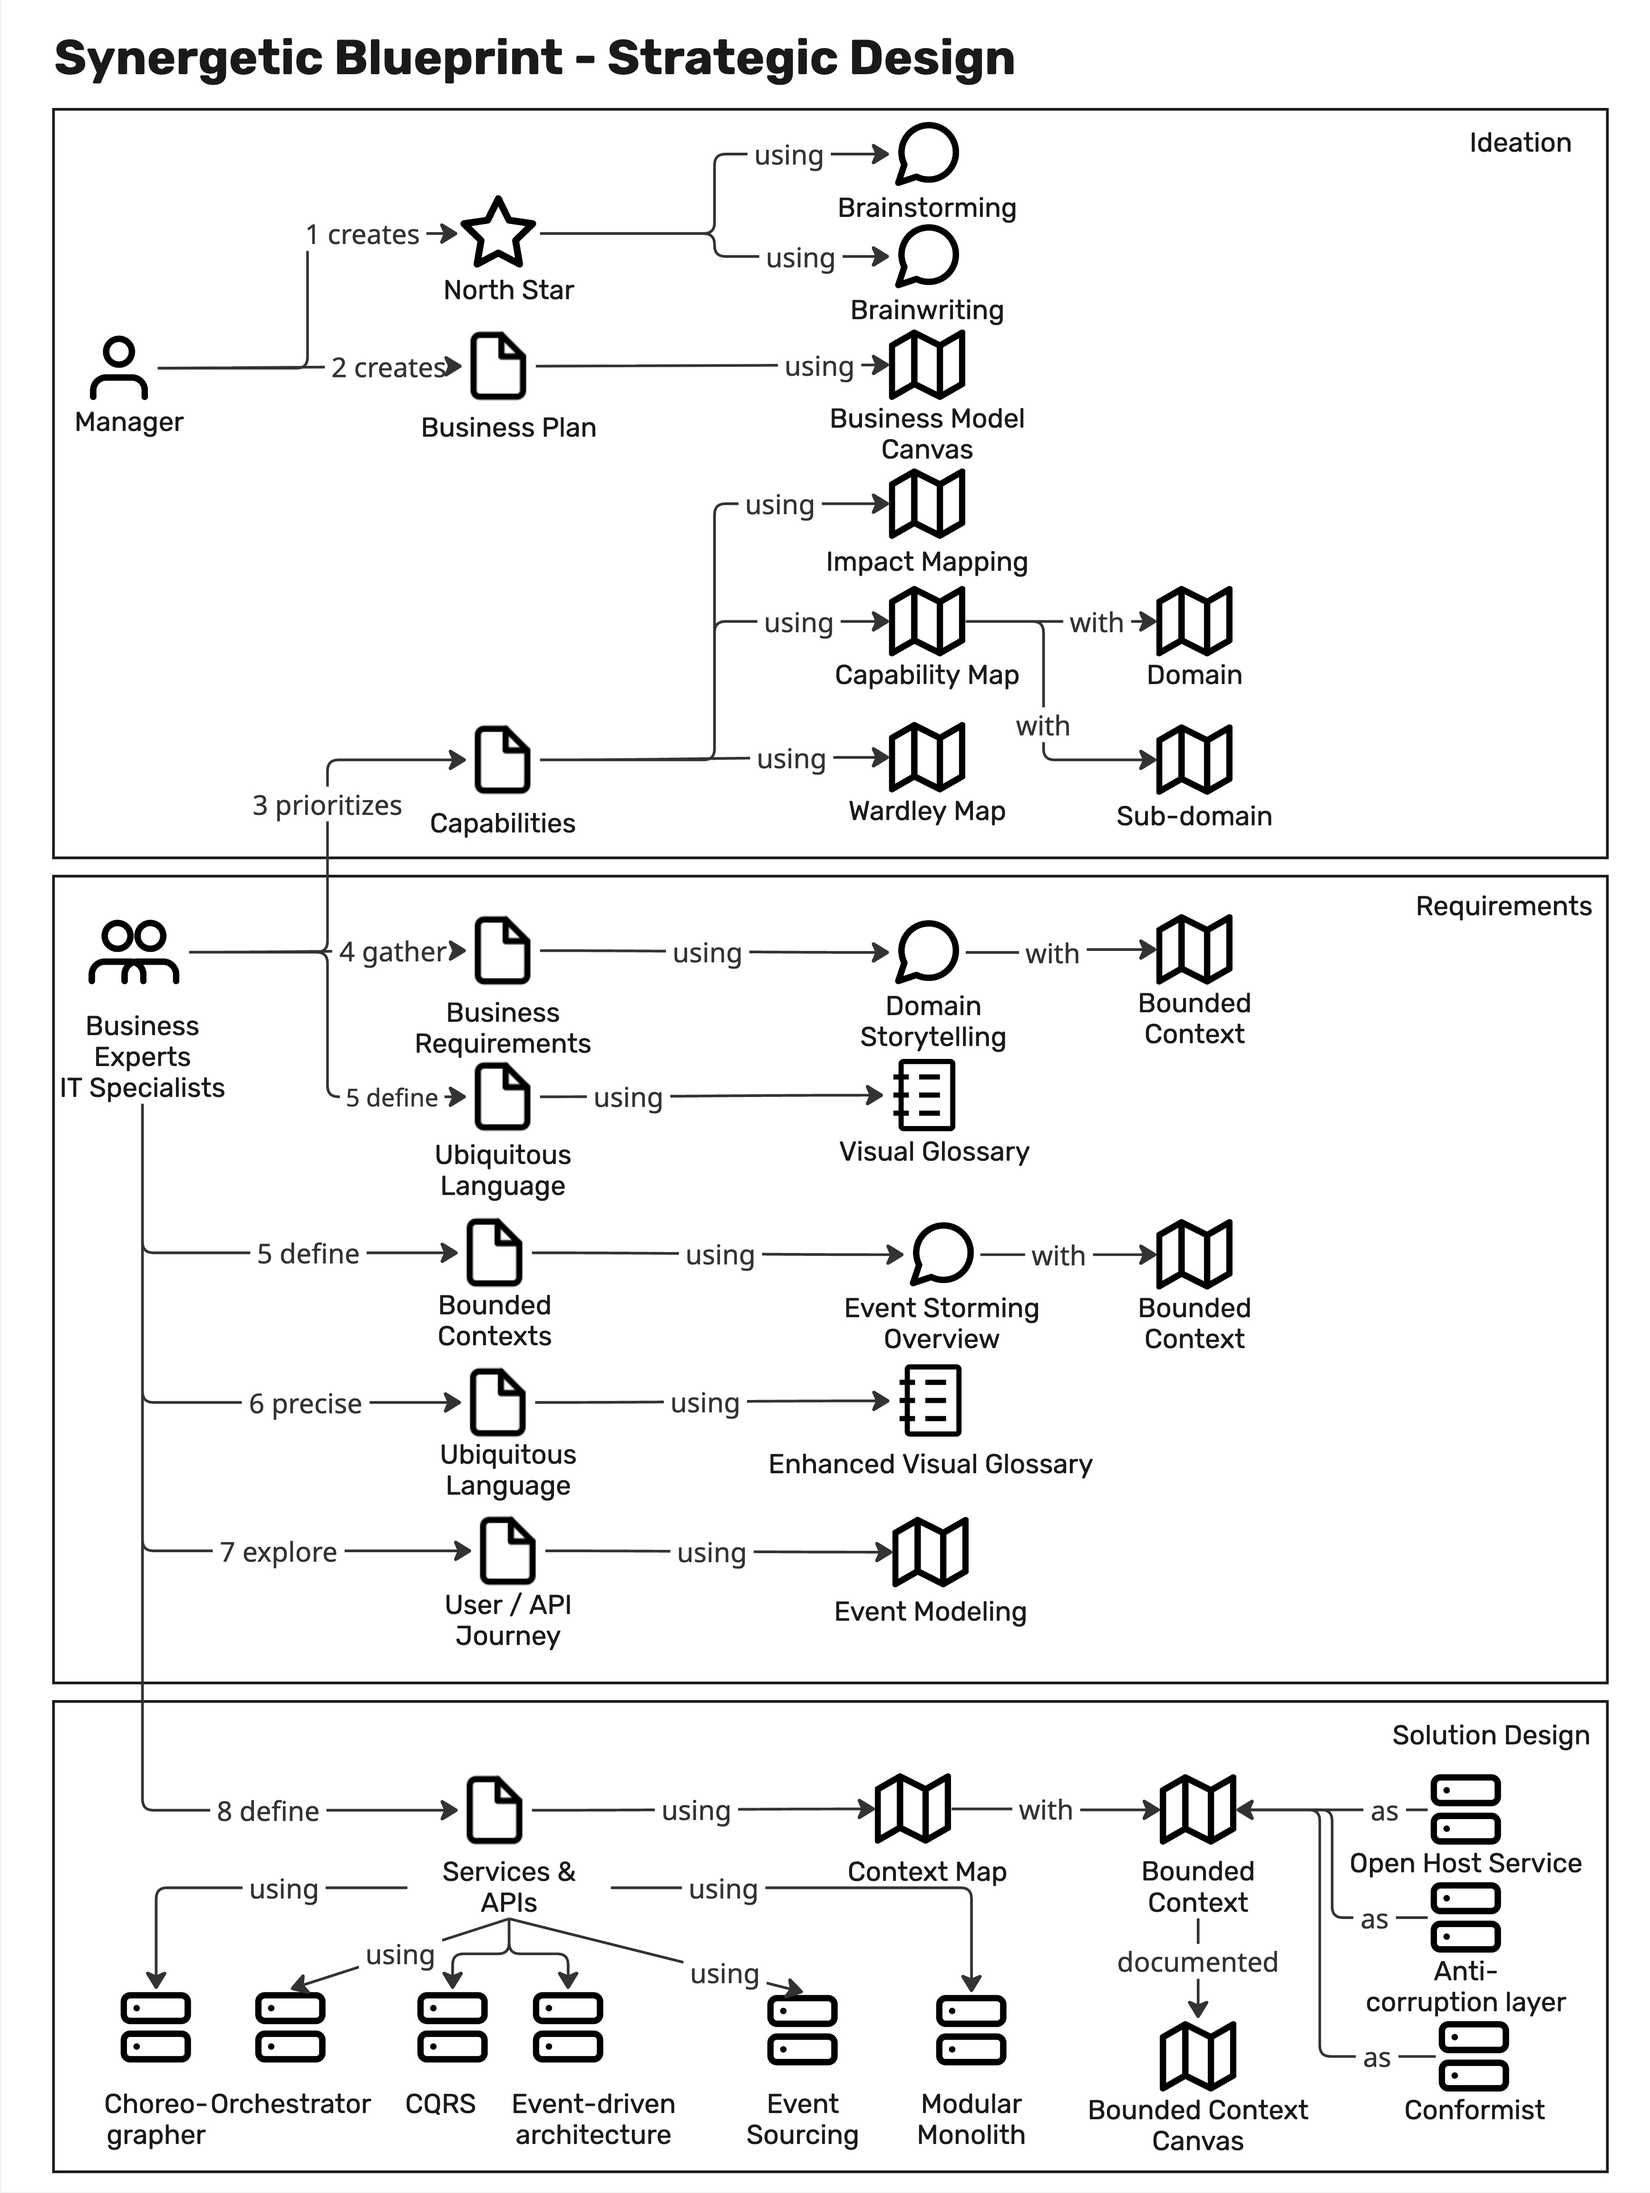
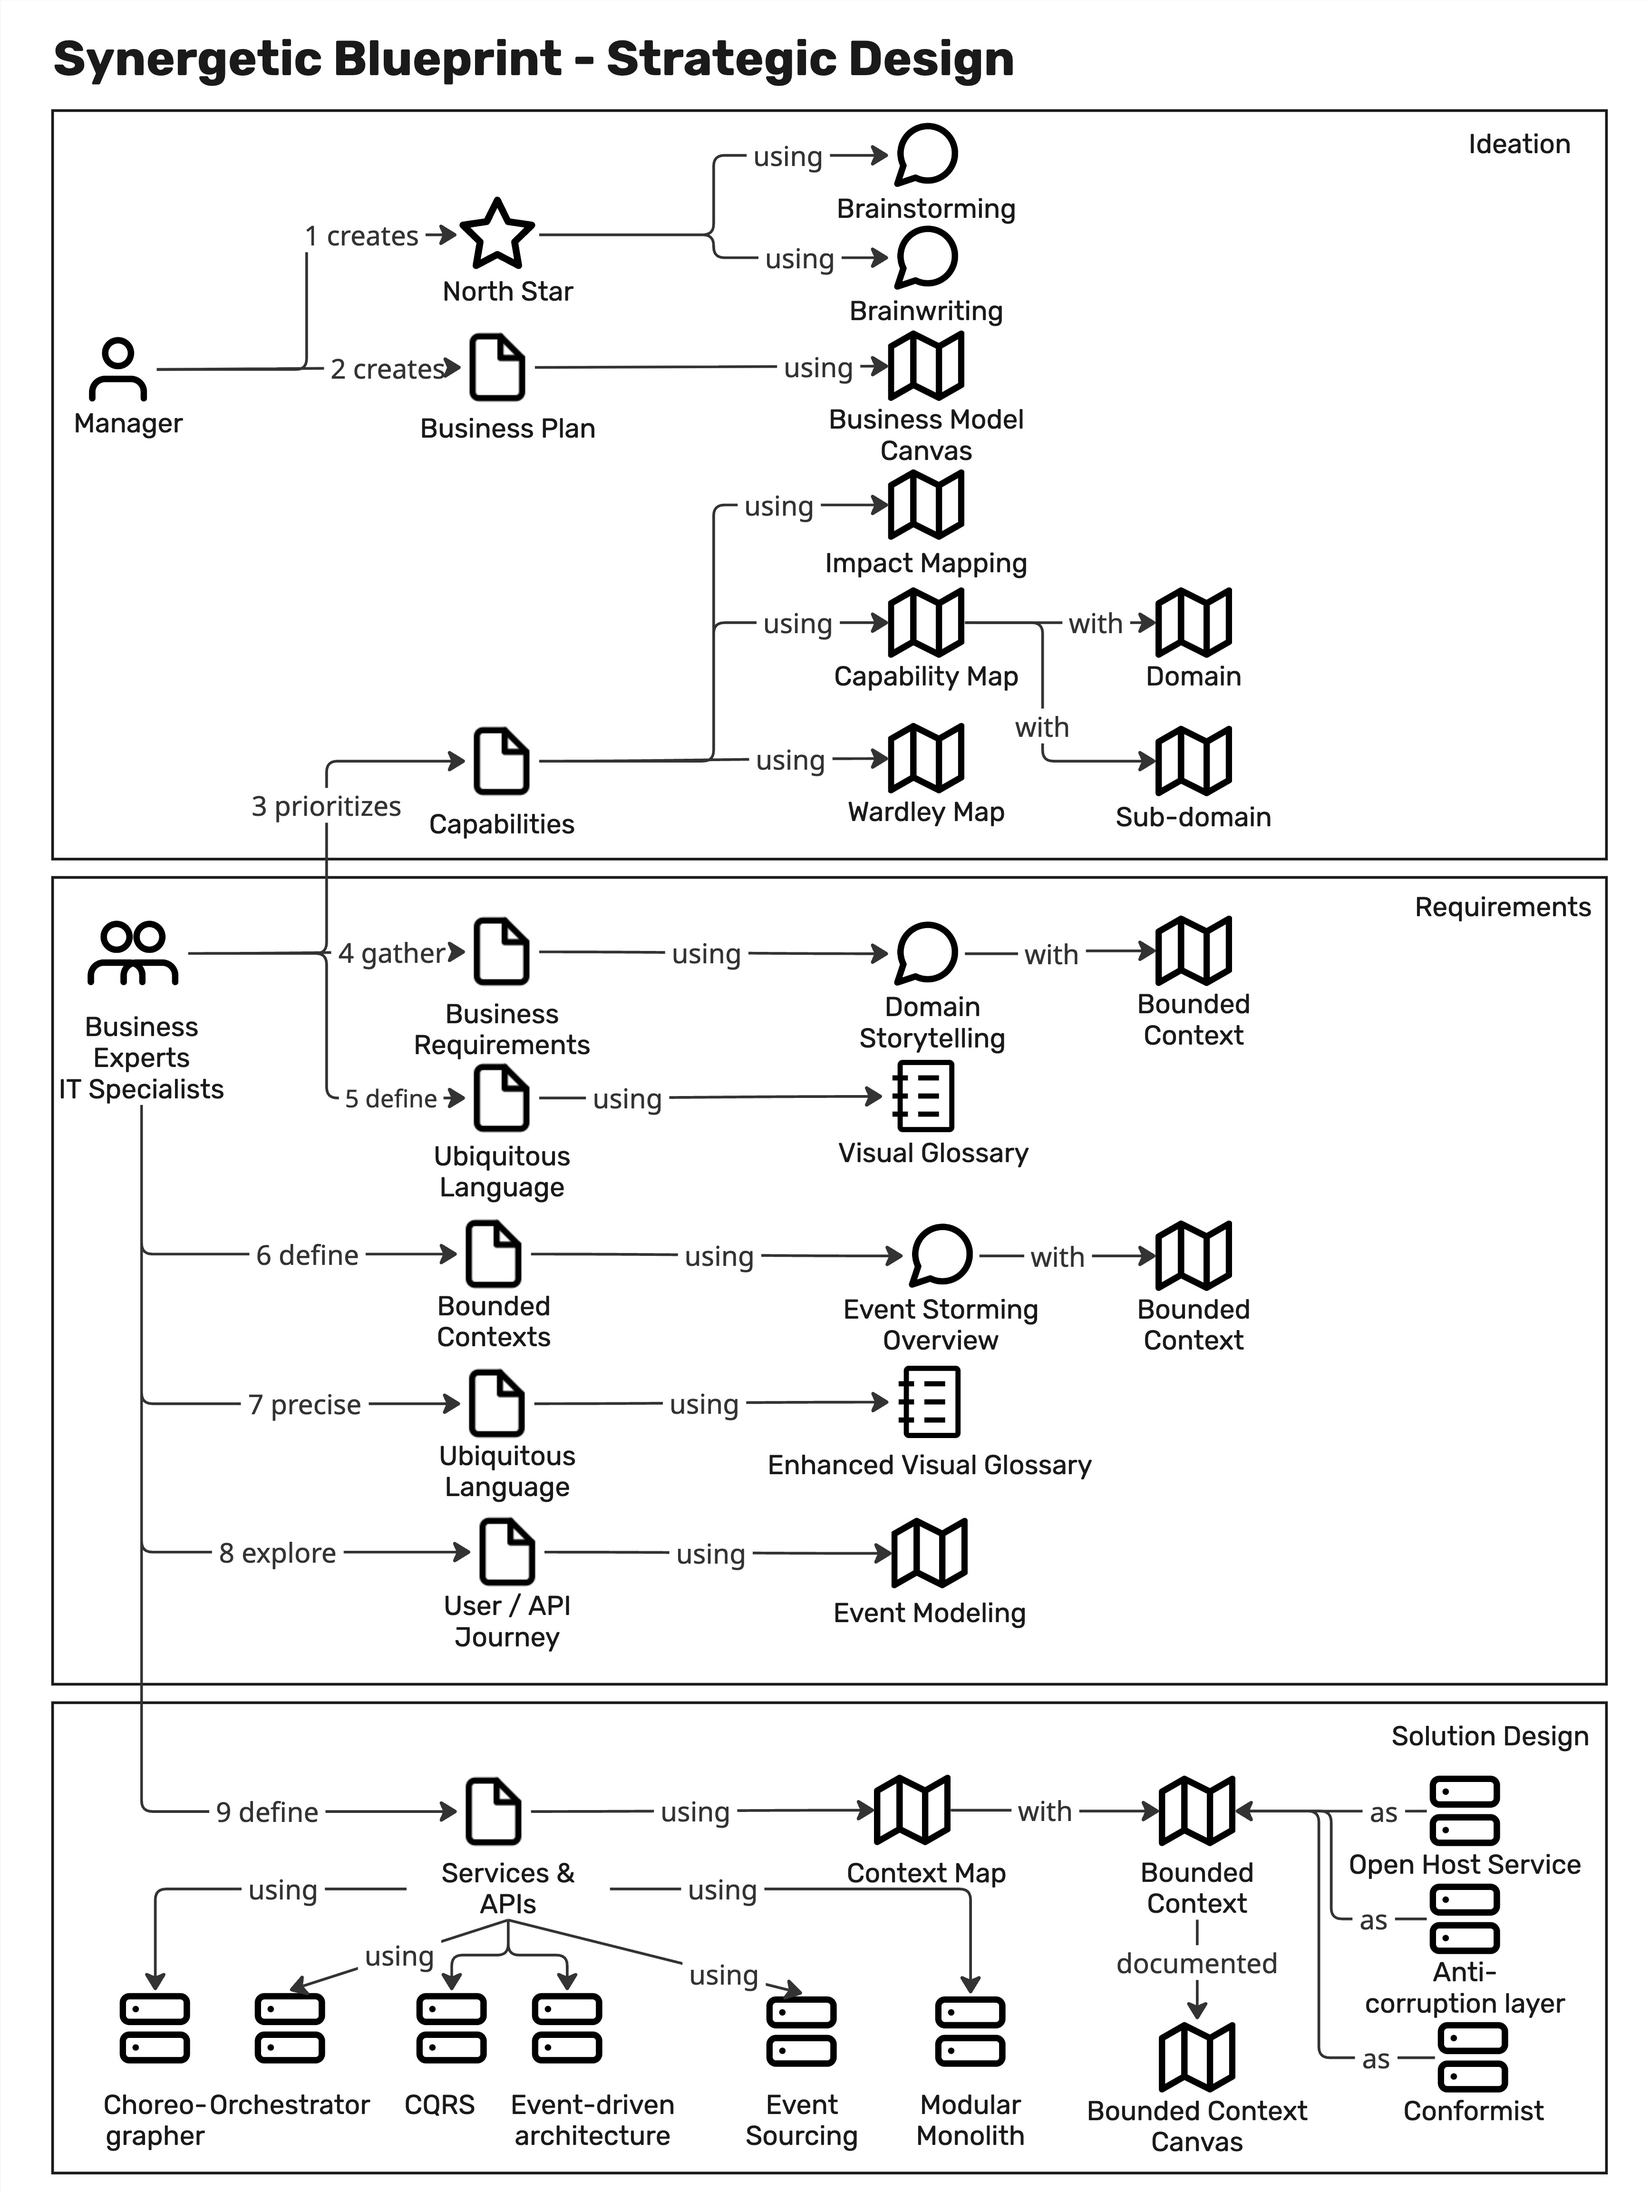
Chapter 1 - Synergetic Blueprint

diff --git a/chapters/part1/01-The-Synergetic-Blueprint-Revisited/chapter.md b/chapters/part1/01-The-Synergetic-Blueprint-Revisited/chapter.md
@@ -19,16 +19,19 @@ The Synergetic Blueprint Revisited
 
 # The Monday morning problem
 
+:::{custom-style="Body Text First"}
 Domain-driven design workshops are often the most exciting part of a project — the room buzzes with insight, the whiteboard fills with clarity, and the team leaves energized.
 But then comes Monday morning: how do we translate that insight into software?
 The gap between workshop output and delivered software is where many projects falter.
 The Synergetic Blueprint was designed to bridge that gap, but it can feel abstract without a concrete example. It was first introduced by _Junker_ in 2025 [@junker2025mastering] and developed further with  _Lazzaretti_ [@junker2025crafting]. The version used here was presented in _"DDD Toolbox"_ [@junker2026toolbox]. 
 In this book, we will revisit the Blueprint through the lens of CookWithUs, a fictional cooking app that will serve as our companion domain throughout.
 We will see how AI does not replace the Blueprint but rather reveals where it was always waiting for richer input.
+:::
 
 # Synergetic Blueprint in a Nutshell
-
+:::{custom-style="Body Text First"}
 The Synergetic Blueprint is a structured process that guides teams from business intent to running software. The strategic part of the Blueprint is shown in Figure 1-1.
+:::
 
 ::: {custom-style="Figure"}
 ![](./assets/StrategicDesign.jpg)
@@ -44,13 +47,46 @@ Figure 1-1: The strategic part of the Synergetic Blueprint
 Figure 1-2: The tactical part of the Synergetic Blueprint
 :::
 
-It consists of three zones — Intent, Structure, and Delivery — and twelve steps that iteratively frame the problem space.
+:::{custom-style="Body Text First"}
+It consists of three zones — Intent, Structure, and Delivery — and fourteen steps that iteratively frame the problem space and define the solution space.
 The Blueprint emphasizes the importance of context in AI-augmented software development, ensuring that AI output is relevant and actionable.
 
-*Step 1: Define the Business Intent*
-The problem which needs to be solved and the value which will be created must be defined.
-We can define a North Star Metric to align the teams around a single measure of success.
+_*Step 1: Define the business intent*_
 
+The problem which needs to be solved and the value which will be created must be defined.
+We can define a North Star Metric to align the teams around a single measure of success [ellis2017hacking][@ellis2017northstar].
+The workshops can be done with techniques of Brainstorming or Brainwriting or with the help of the AI to generate ideas and structure them [@osborn1953applied][@miller2012quick].
+
+_*Step 2: Lay out a plan*_
+
+In a second step, a business plan is created to define the steps to reach the business intent.
+The plan can be created with the help of techniques such as Business Model Canvas [@osterwalder2010business] or Lean Canvas [@maurya2012running].
+The AI can be used to generate ideas for the business plan and to structure them.
+
+_*Step 3: Define the domain*_
+
+The is defined by the prioritization and structuring of the business capabilities.
+The domain is further detailed using techniques like _Impact Mapping_ [@adzic2012impact] or capability maps [@moser2025capability] [opengroup2022togaf].
+
+AI is helping to structure and generate ideas which can be discussed in the group.
+
+Moreover, the capabilities including their functions fulfilling user requirements need to be prioritized.
+A highly effective technique to do so is a _Wardley Map_ where functions and implementing sofware can be prioritized based on their value and maturity [@wardley2022maps].
+
+_*Step 4: Gather business requirements*_
+
+Business requirements are gathered and structured in a way that they can be used for software development.
+Techniques such as _Domain Storytelling_ can be used [@hofer2021storytelling].
+
+AI can be used to generate and structure the business requirements based on the domain story and the business plan. It helps facilitators to prepare and debrief corresponding workshops.
+
+_*Step 5: Define the ubiquitous language*_
+
+The ubiquitous language is one of the center stones of DDD and the Blueprint. It is defined by the terms and concepts that are used to describe the domain and the software.
+A _Visual Glossary_ accompanied by Domain Storytelling and Event Storming is highly useful throughout the entire development process [@zoerner2021architekturen].
+
+
+:::
 
 # CookWithUs Blueprint Flow
 

diff --git a/chapters/02-abbreviations.md b/chapters/02-abbreviations.md
@@ -2,7 +2,21 @@
 Abbreviations and terms
 :::
 
-AI - Artificial Intelligence
-DDD - Domain-Driven Design
-Synergetic Blueprint - the structured process from business intent to running software that provides the context for effective human-AI collaboration
+| Abbreviation and Terms | Note  |
+|------------------------|-------|
+| AI                     | Artificial Intelligence |
+| Brainstorming            | a group creativity technique designed to generate a large number of ideas for the solution to a problem |
+| Brainwriting            | a group creativity technique where participants write down their ideas on paper |
+| Business Model Canvas     | a strategic management template for developing new or documenting existing business models |
+| Capability Map            | a visual representation of the capabilities of an organization and their relationships |
+| Domain Storytelling | a technique for gathering and structuring business requirements by telling stories about the domain |
+| DDD                    | Domain-Driven Design |
+| Impact Mapping          | a strategic planning technique that helps teams visualize the relationships between business goals, user needs, and software features |
+| Lean Canvas              | a one-page business plan template that helps entrepreneurs deconstruct their idea into key assumptions |
+| North Star Metric      | a single measure of success that aligns teams around a common goal |
+| Synergetic Blueprint   | the structured process from business intent to running software that provides the context for effective human-AI collaboration |
+| Ubiquitous Language     | the terms and concepts that are used to describe the domain and the software |
+| Visual Glossary           | a visual representation of the ubiquitous language and the relationships |
+| Wardley Map              | a visual representation of the value and maturity of functions and implementing software |
+
 

diff --git a/README.md b/README.md
@@ -23,3 +23,10 @@ The bibliography section is created using a lua filter which collects all cites 
 
 Please be careful to order the keys alphabetically, so that doubles can be detected easily.
 The keys should be ordered according to the following pattern: `AuthorYearTitle` where `Author` is the last name of the first author, `Year` is the year of publication and `Title` is a short title describing the content of the reference.
+
+The build can be triggered with running
+```bash
+./build.sh
+```
+
+The result is in the root folder of the project as `BookDddMeetsAi.docx`. 

diff --git a/chapters/part1/02-AI-As-Design-Partner/chapter.md b/chapters/part1/02-AI-As-Design-Partner/chapter.md
@@ -1,3 +1,6 @@
+```{=openxml}
+<w:p><w:r><w:br w:type="page"/></w:r></w:p>
+```
 ::: {custom-style="CHAPTER NUMBER"}
 Chapter 2
 :::
